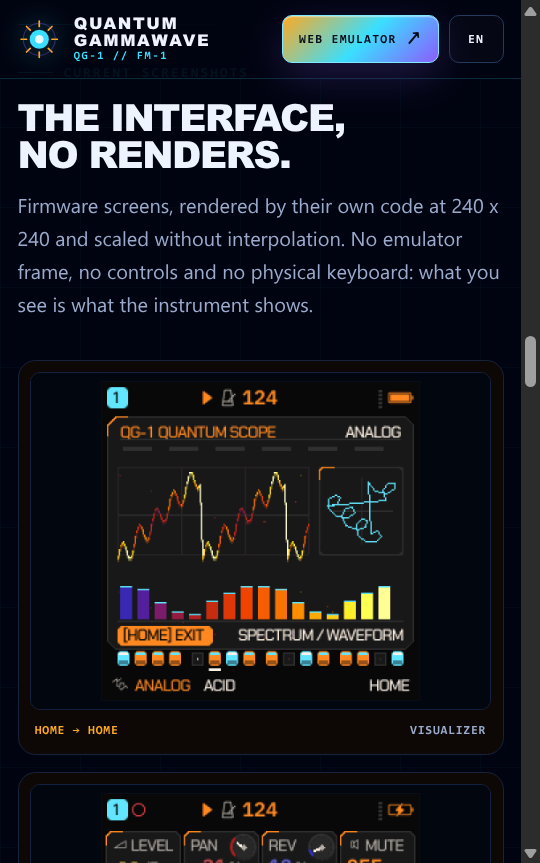
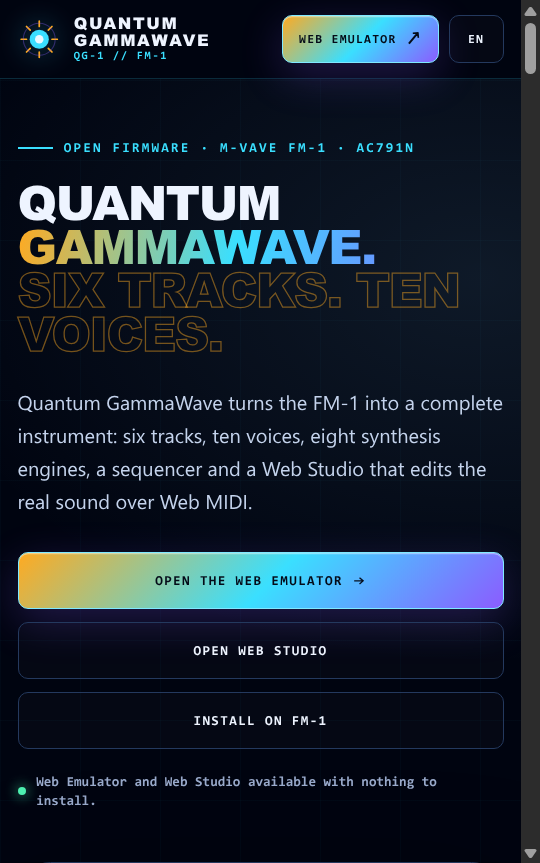
docs(readme): the portal captures are the published site, at last, side by side
The section said the published build was 0f52f48 and that GitHub Pages had not redeployed since -- true when
it was written, and it was the honest way to admit the site was 22 commits behind. Pages deploys again, so
the pair is now two captures taken from the published origin one after the other at the same 432 x 690
viewport, same width in the table, nothing cropped or stretched. The wide render stays as a layout reference,
labelled as such, and the text points at versions.json and the emulator manifest as the places the page
proves which build it is.

🤖 Generated with Codebuff

diff --git a/README.md b/README.md
@@ -58,14 +58,20 @@ Checks the package and the device identity before it writes anything.
 
 | Public portal (`/`) | Public Web Studio (`/webapp/editor/`) |
 |---|---|
-| <img src="artifacts/public-portal-1440x900.png" width="720" height="450" alt="Quantum GammaWave portal at 1440x900"> | <img src="artifacts/public-webstudio-1440x900.png" width="720" height="450" alt="Web Studio 2.0 at 1440x900"> |
+| <img src="artifacts/public-portal-432x690.png" width="360" alt="Quantum GammaWave portal, published build"> | <img src="artifacts/public-webstudio-432x690.png" width="360" alt="Web Studio 2.0, published build"> |
 
 The portal is the official entry point and links the real WASM emulator, the USB installer and the Web Studio.
-Both captures are the same viewport -- 1440 x 900, cropped from the full-page ones beside them -- so the
-two columns are the same size and neither image is stretched. They were captured in Chromium from the
-**published build `0f52f48`**, not from localhost: GitHub Pages has not redeployed since, so the portal
-in the picture is older than the screenshots it links (`artifacts/site-desktop-capturas.png` and
-`artifacts/site-mobile-capturas.png` show the checked local build instead).
+Both captures are the **same viewport -- 432 x 690 -- taken from GitHub Pages itself**, one after the other,
+so the two columns are the same size and neither image is stretched or cropped: what the table shows is
+what the published site served when this line was written. The wide layout is `artifacts/live-desktop-1440.png`
+(the same page rendered in a 1440 px frame, scaled down to fit the capture window, so it is evidence of
+layout and not of text rendering).
+
+The portal prints the build it is serving in the hero (`v1.9.0-<commit>`, read from
+[`firmware/versions.json`](firmware/versions.json) -- version, package file, size, SHA-256 and the build
+record of the firmware it was compiled from), and the emulator page prints its own commit and WASM hash from
+[the emulator page](https://guillel51.github.io/Quantum-GammaWave/emulator/) beside it. Both come from the same commit as
+`.github/workflows/emulator.yml` published, so a stale page is visible in the page itself.
 
 ---
 
